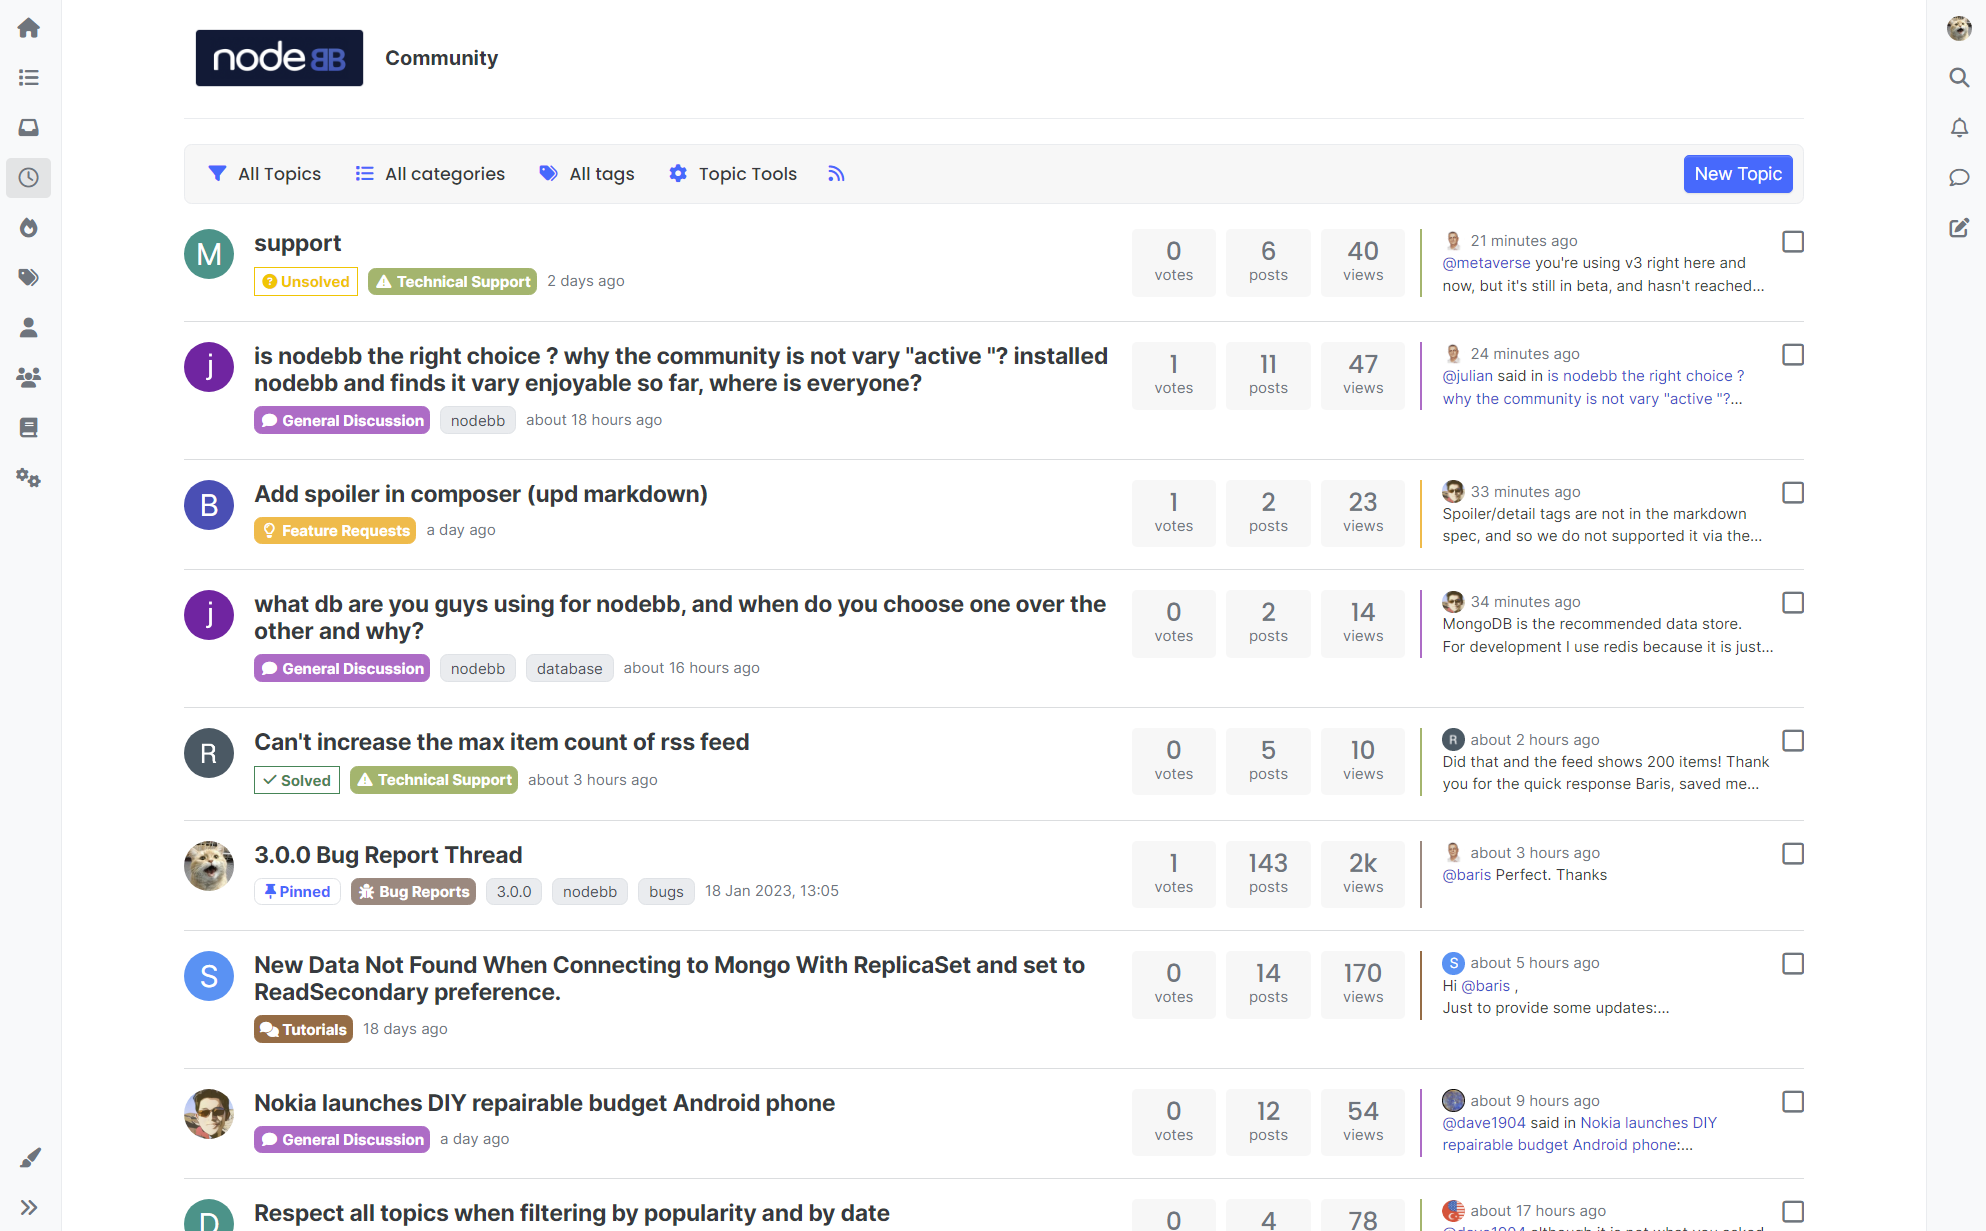
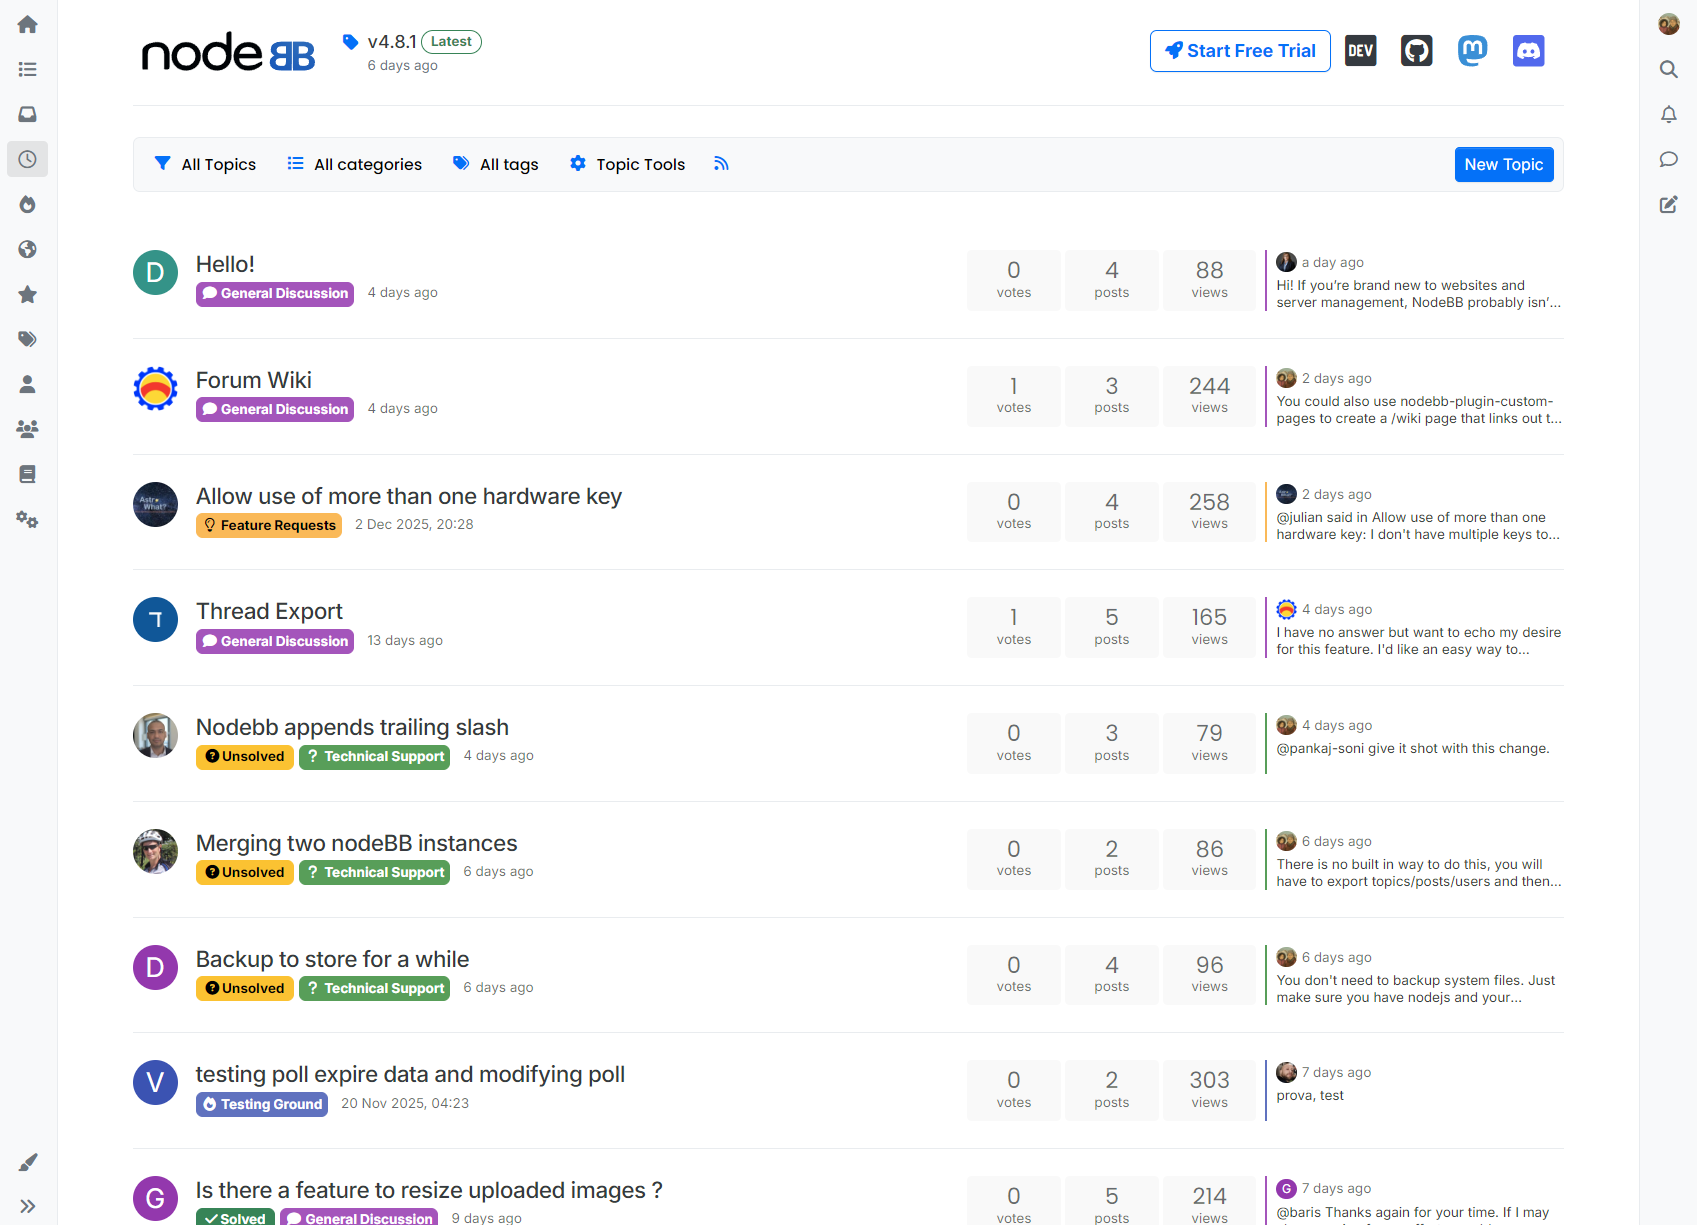
update screenshots

diff --git a/README.md b/README.md
@@ -15,6 +15,10 @@ _The cards in the header are added by the recent cards plugin. https://github.co
 
 <img height="450" src="screenshots/categories.png">
 
+### Category
+
+<img height="450" src="screenshots/category.png">
+
 ### Recent
 <img height="450" src="screenshots/recent.png">
 
